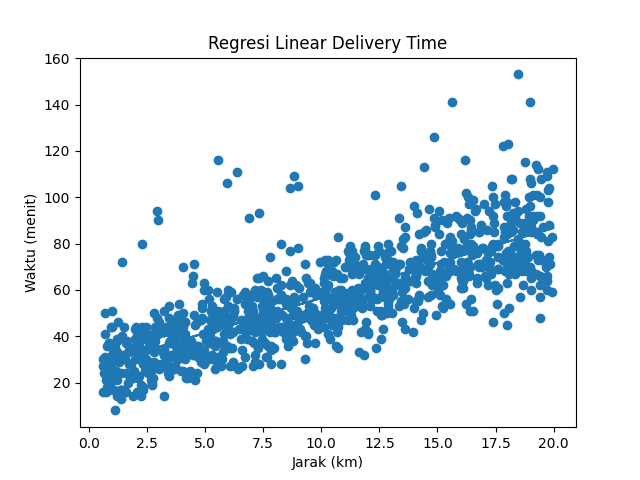
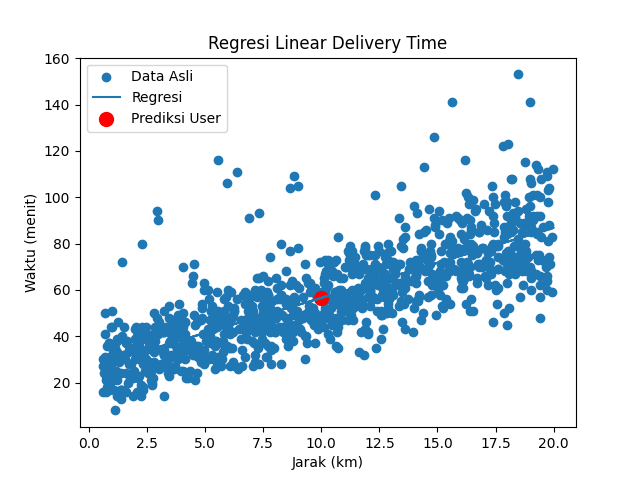
update terbaru

Changed region(s): [[0.125, 0.125, 0.3438, 0.2812], [0.4688, 0.5938, 0.5312, 0.6562]]

diff --git a/model.py b/model.py
@@ -17,7 +17,11 @@ def train_model():
 
 import matplotlib.pyplot as plt
 
-def save_plot():
+def save_plot(jarak_input=None):
+    import pandas as pd
+    import matplotlib.pyplot as plt
+    from sklearn.linear_model import LinearRegression
+
     df = pd.read_csv("Food_Delivery_Times.csv")
 
     X = df[['Distance_km']]
@@ -27,11 +31,18 @@ def save_plot():
     model.fit(X, y)
 
     plt.figure()
-    plt.scatter(X, y)
-    plt.plot(X, model.predict(X))
+    plt.scatter(X, y, label="Data Asli")
+    plt.plot(X, model.predict(X), label="Regresi")
+
+    # 🔴 titik input user
+    if jarak_input is not None:
+        pred = model.predict([[jarak_input]])
+        plt.scatter(jarak_input, pred, color='red', s=100, label="Prediksi User")
+
     plt.xlabel("Jarak (km)")
     plt.ylabel("Waktu (menit)")
     plt.title("Regresi Linear Delivery Time")
+    plt.legend()
 
     plt.savefig("static/plot.png")
     plt.close()

diff --git a/app.py b/app.py
@@ -1,13 +1,10 @@
 from flask import Flask, render_template, request
 import pandas as pd
-from model import train_model
 from model import train_model, save_plot
 
 app = Flask(__name__)
 
-# load model
 model = train_model()
-save_plot()
 
 @app.route("/", methods=["GET", "POST"])
 def index():
@@ -16,9 +13,11 @@ def index():
     if request.method == "POST":
         jarak = float(request.form["jarak"])
 
-        # biar tidak warning
         data = pd.DataFrame([[jarak]], columns=['Distance_km'])
         hasil = model.predict(data)[0]
+
+        # update grafik
+        save_plot(jarak)
 
     return render_template("index.html", hasil=hasil)
 
